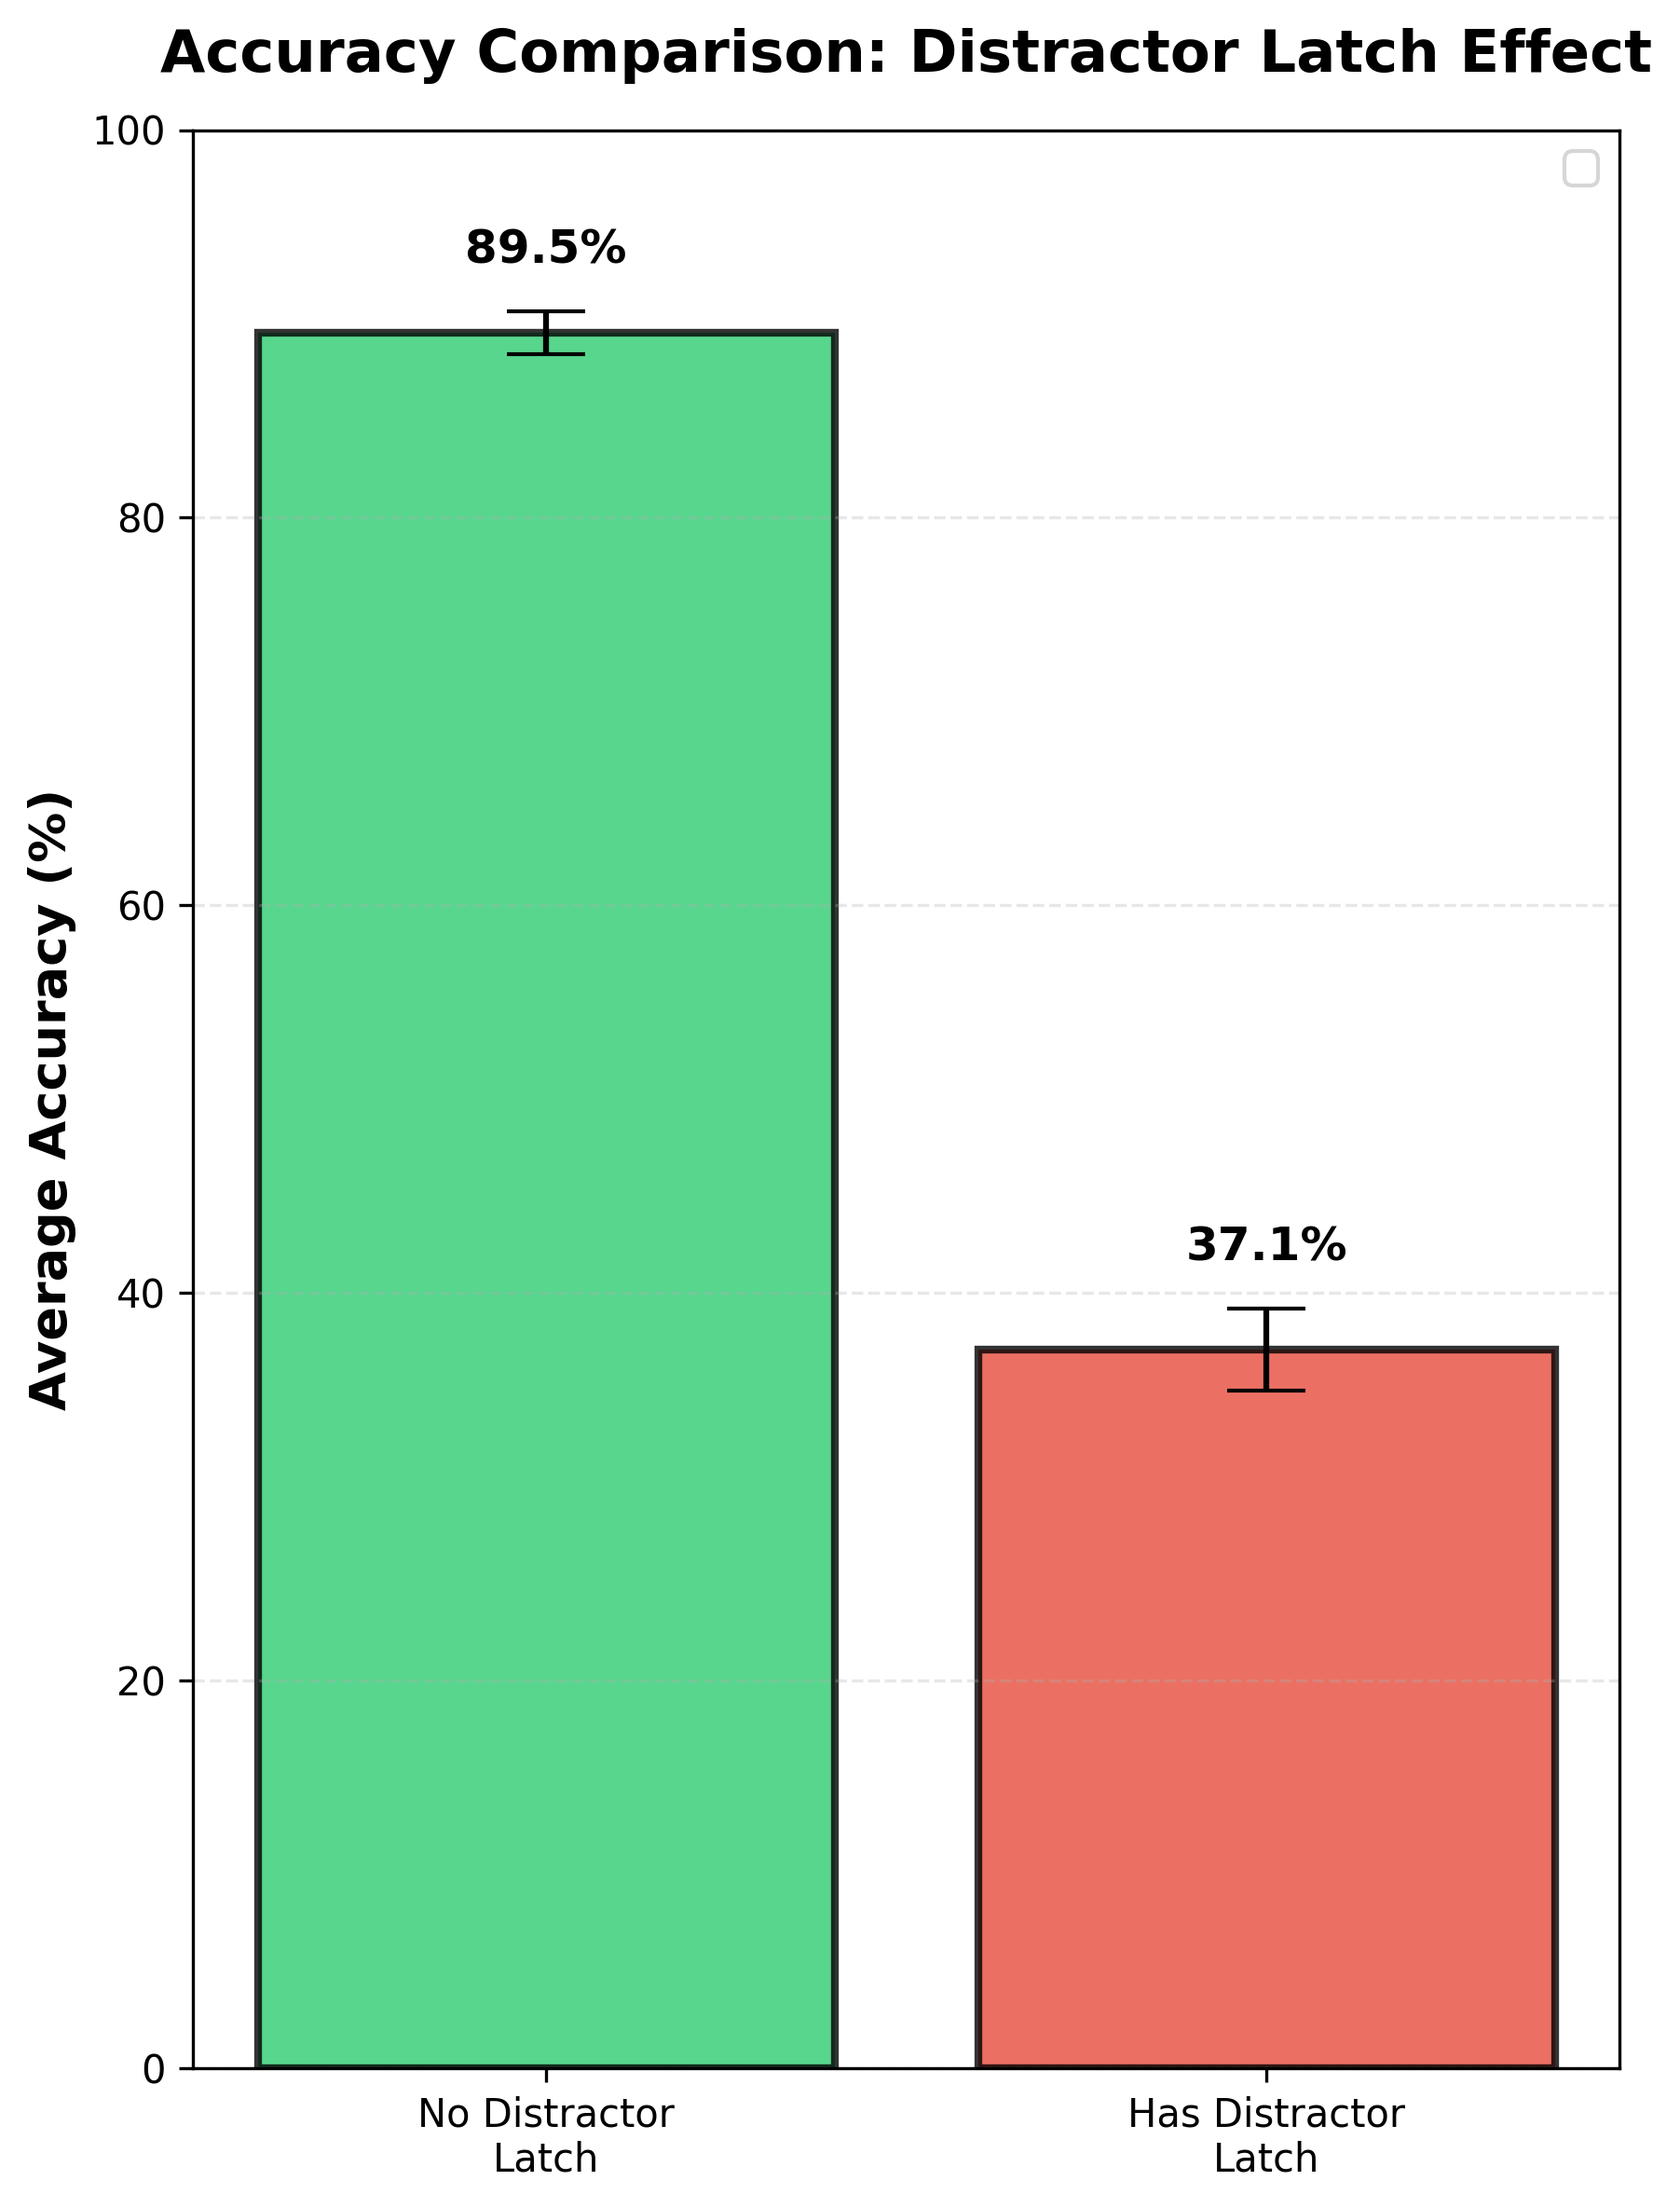
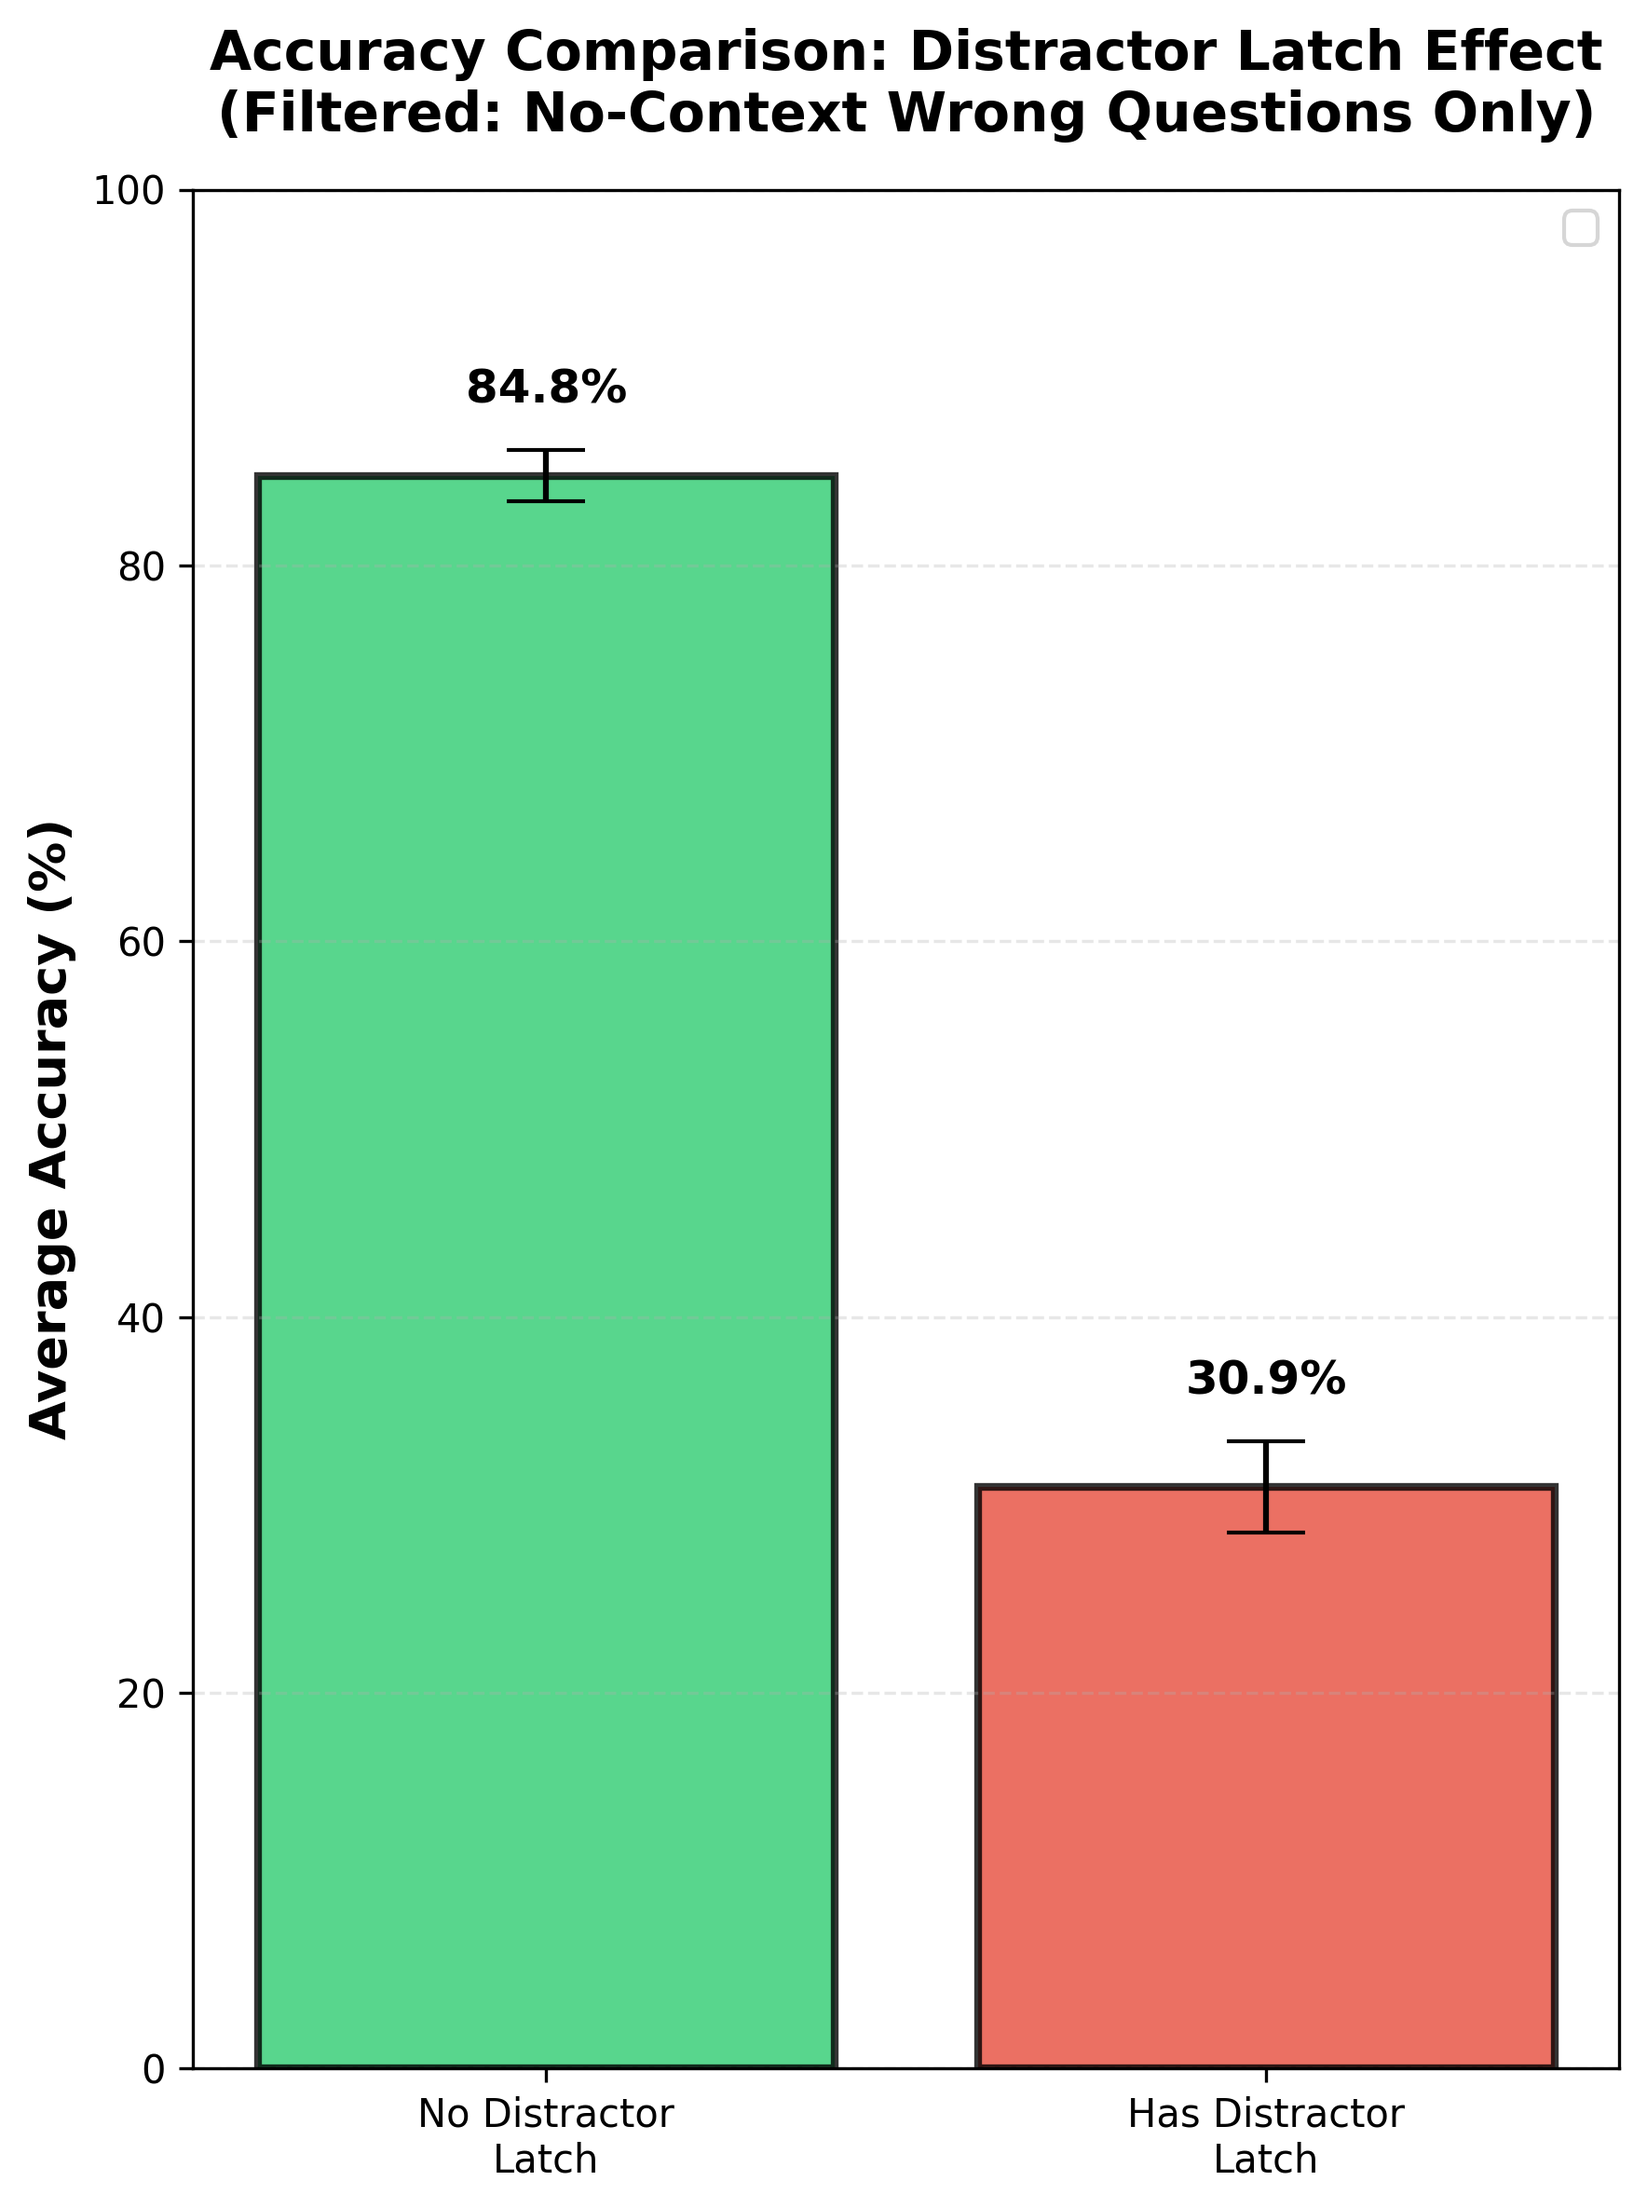
distractor latch plot updated with no context baseline

Changed region(s): [[0.0, 0.0, 0.9955, 0.9371], [0.6844, 0.9371, 0.8399, 0.9996], [0.2489, 0.9371, 0.4044, 0.9996]]

diff --git a/src/analyzing/plot_distractor_latch_only.py b/src/analyzing/plot_distractor_latch_only.py
@@ -15,6 +15,13 @@ from typing import Dict, List, Tuple, Any
 
 import matplotlib.pyplot as plt
 import numpy as np
+import sys
+
+sys.path.insert(0, str(Path(__file__).resolve().parents[1]))
+from rag_analysis.hallucination_rag_plots.hall_plot_utils import (
+    load_no_context_wrong_questions, normalize_model_name
+)
+
 
 
 def get_base_path() -> Path:
@@ -94,7 +101,8 @@ def get_quality_model_entries() -> List[Tuple[Path, Path, str]]:
     return entries
 
 
-def analyze_distractor_latch_only(quality_file: Path, reverified_file: Path) -> Dict[str, Any]:
+def analyze_distractor_latch_only(quality_file: Path, reverified_file: Path, wrong_questions_map: Dict[str, set], model_name: str) -> Dict[str, Any]:
+
     """
     Analyze ONLY the effects of distractor latch (ignore contradictions).
     
@@ -137,7 +145,20 @@ def analyze_distractor_latch_only(quality_file: Path, reverified_file: Path) -> 
                 unmatched += 1
                 continue
             
+            # Filter: Check if question was wrong in no-context baseline
+            # Normalize internal model_name just in case, though caller provides a normalized one usually
+            normalized_name = normalize_model_name(model_name)
+            
+            # Skip check if we don't have map for this model (uncommon if key exists)
+            # But strictly: if model not in map OR question not in map[model], skip
+            if normalized_name not in wrong_questions_map:
+                continue
+                
+            if question not in wrong_questions_map[normalized_name]:
+                continue
+            
             matched += 1
+
             is_correct = is_correct_map[question]
             
             parsed = data.get('parsed_judgment', {})
@@ -243,8 +264,9 @@ def plot_distractor_latch_only(all_stats: Dict[str, Dict], output_dir: Path):
     
     ax1.set_ylabel('Average Accuracy (%)', fontsize=13, fontweight='bold')
     # Removed "(Mean over Models ± SEM)" from title as requested
-    ax1.set_title('Accuracy Comparison: Distractor Latch Effect', 
-                  fontsize=15, fontweight='bold', pad=15)
+    ax1.set_title('Accuracy Comparison: Distractor Latch Effect\n(Filtered: No-Context Wrong Questions Only)', 
+                  fontsize=14, fontweight='bold', pad=15)
+
     ax1.set_ylim(0, 100)
     ax1.grid(axis='y', alpha=0.3, linestyle='--')
     ax1.legend(fontsize=11)
@@ -287,8 +309,9 @@ def plot_distractor_latch_only(all_stats: Dict[str, Dict], output_dir: Path):
                    label='Has Distractor', color='#e74c3c', alpha=0.8)
     
     ax2.set_ylabel('Accuracy (%)', fontsize=13, fontweight='bold')
-    ax2.set_title('Per-Model: Accuracy With vs Without Distractor Latch', 
-                  fontsize=15, fontweight='bold', pad=15)
+    ax2.set_title('Per-Model: Accuracy With vs Without Distractor Latch\n(Filtered: No-Context Wrong Questions Only)', 
+                  fontsize=14, fontweight='bold', pad=15)
+
     ax2.set_xticks(x_models)
     ax2.set_xticklabels(models, rotation=45, ha='right', fontsize=10)
     ax2.legend(fontsize=12)
@@ -328,8 +351,9 @@ def plot_distractor_latch_only(all_stats: Dict[str, Dict], output_dir: Path):
                 ha='center', va='bottom', fontweight='bold', fontsize=10)
     
     ax3.set_ylabel('Percentage of Questions (%)', fontsize=13, fontweight='bold')
-    ax3.set_title('Distractor Latch Prevalence by Model', 
-                  fontsize=15, fontweight='bold', pad=15)
+    ax3.set_title('Distractor Latch Prevalence by Model\n(Filtered: No-Context Wrong Questions Only)', 
+                  fontsize=14, fontweight='bold', pad=15)
+
     ax3.set_xticks(x_models)
     ax3.set_xticklabels(models, rotation=45, ha='right', fontsize=10)
     ax3.grid(axis='y', alpha=0.3, linestyle='--')
@@ -426,13 +450,21 @@ def main():
     output_dir = base / "src" / "plots" / "contradiction_distractor_latch"
     output_dir.mkdir(parents=True, exist_ok=True)
     
+    # Load wrong questions map
+    wrong_questions_map = load_no_context_wrong_questions(base / 'src')
+
+    
     print("Analyzing ONLY distractor latch effects (ignoring contradictions)...")
+    print("FILTER ACTIVE: Including ONLY questions wrong in no-context baseline.")
     
     all_stats = {}
     for quality_path, reverified_path, display_name in get_quality_model_entries():
-        stats = analyze_distractor_latch_only(quality_path, reverified_path)
+        # Pass model name for filtering
+        # We need the key used in wrong_questions_map which is typically normalized
+        stats = analyze_distractor_latch_only(quality_path, reverified_path, wrong_questions_map, display_name)
         all_stats[display_name] = stats
         print(f"Loaded {display_name}")
+
     
     print(f"\nTotal models analyzed: {len(all_stats)}")
     
